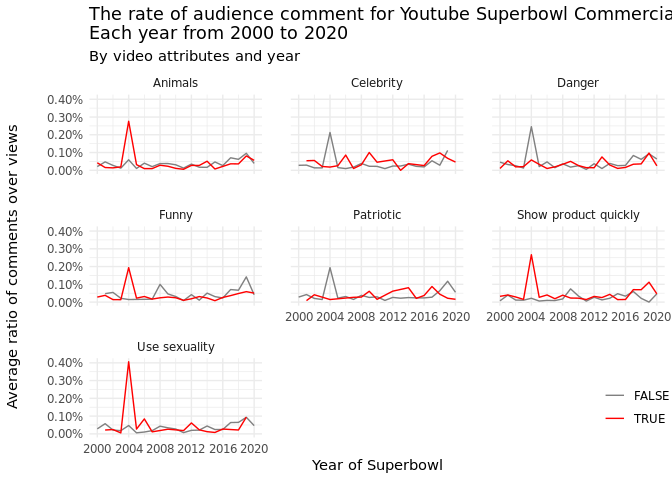
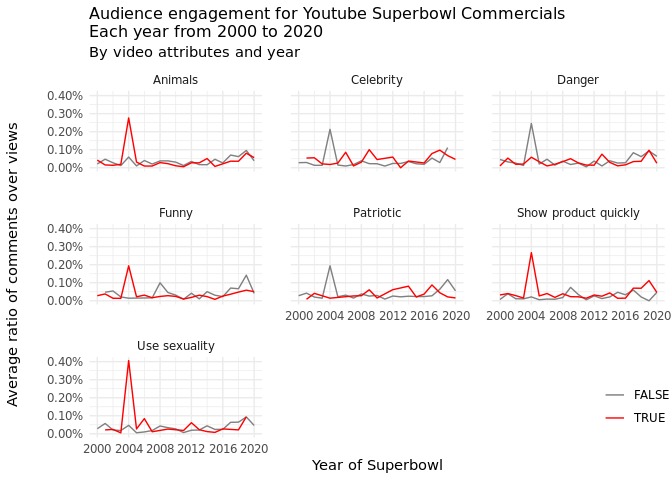
changed title

diff --git a/README.md b/README.md
@@ -194,7 +194,7 @@ all_compare <- rbind(create_compare(funny, youtube),
 # plotting like vs. year
 ggplot(all_compare, aes(x = as.numeric(year), y = mean_like)) + 
   geom_line(aes(color = val)) + 
-  labs(title = "The rate of audience hitting 'like' for Youtube Superbowl Commercials\nEach year from 2000 to 2020",
+  labs(title = "Audience preferences for Youtube Superbowl Commercials\nEach year from 2000 to 2020",
        subtitle = "By video attributes and year",
        x = "Year of Superbowl",
        y = "Average ratio of likes over views") +
@@ -212,16 +212,17 @@ ggplot(all_compare, aes(x = as.numeric(year), y = mean_like)) +
                                     hjust = 0.5),
         panel.spacing = unit(1.5, "lines"),
         legend.position = c(0.95, 0.1),
-        legend.title = element_blank())
+        legend.title = element_blank(),
+        plot.title = element_text(size = 12))
 ```
 
-![](README_files/figure-gfm/all_compare-1.png)<!-- -->
+<img src="README_files/figure-gfm/all_compare-1.png" width="80%" />
 
 ``` r
 # plotting comment vs. year
 ggplot(all_compare, aes(x = as.numeric(year), y = mean_engage)) + 
   geom_line(aes(color = val)) + 
-  labs(title = "The rate of audience comment for Youtube Superbowl Commercials\nEach year from 2000 to 2020",
+  labs(title = "Audience engagement for Youtube Superbowl Commercials\nEach year from 2000 to 2020",
        subtitle = "By video attributes and year",
        x = "Year of Superbowl",
        y = "Average ratio of comments over views") +
@@ -236,7 +237,8 @@ ggplot(all_compare, aes(x = as.numeric(year), y = mean_engage)) +
                                     hjust = 0.5),
         panel.spacing = unit(1.5, "lines"),
         legend.position = c(0.95, 0.1),
-        legend.title = element_blank())
+        legend.title = element_blank(),
+        plot.title = element_text(size = 12))
 ```
 
 ![](README_files/figure-gfm/engagement_plot-1.png)<!-- -->
@@ -248,7 +250,7 @@ trying to interpret the lines. Here, we can see that over the years,
 `funny` and `show_product_quickly` take up the highest proportion among
 the seven video attributes. However, both of them are showing a
 decreasing trend when it’s around 2020. In fact, other attributes, such
-as `patriotic` and `use_sex`, experiences decreases recently. And
+as `patriotic` and `use_sex`, experiencing decreases recently. And
 `celebrity` is, nevertheless, having an increasing relative proportion.
 attribute `patriotic` takes up the least proportion overall, but it
 reaches its peak proportion around 2017.
